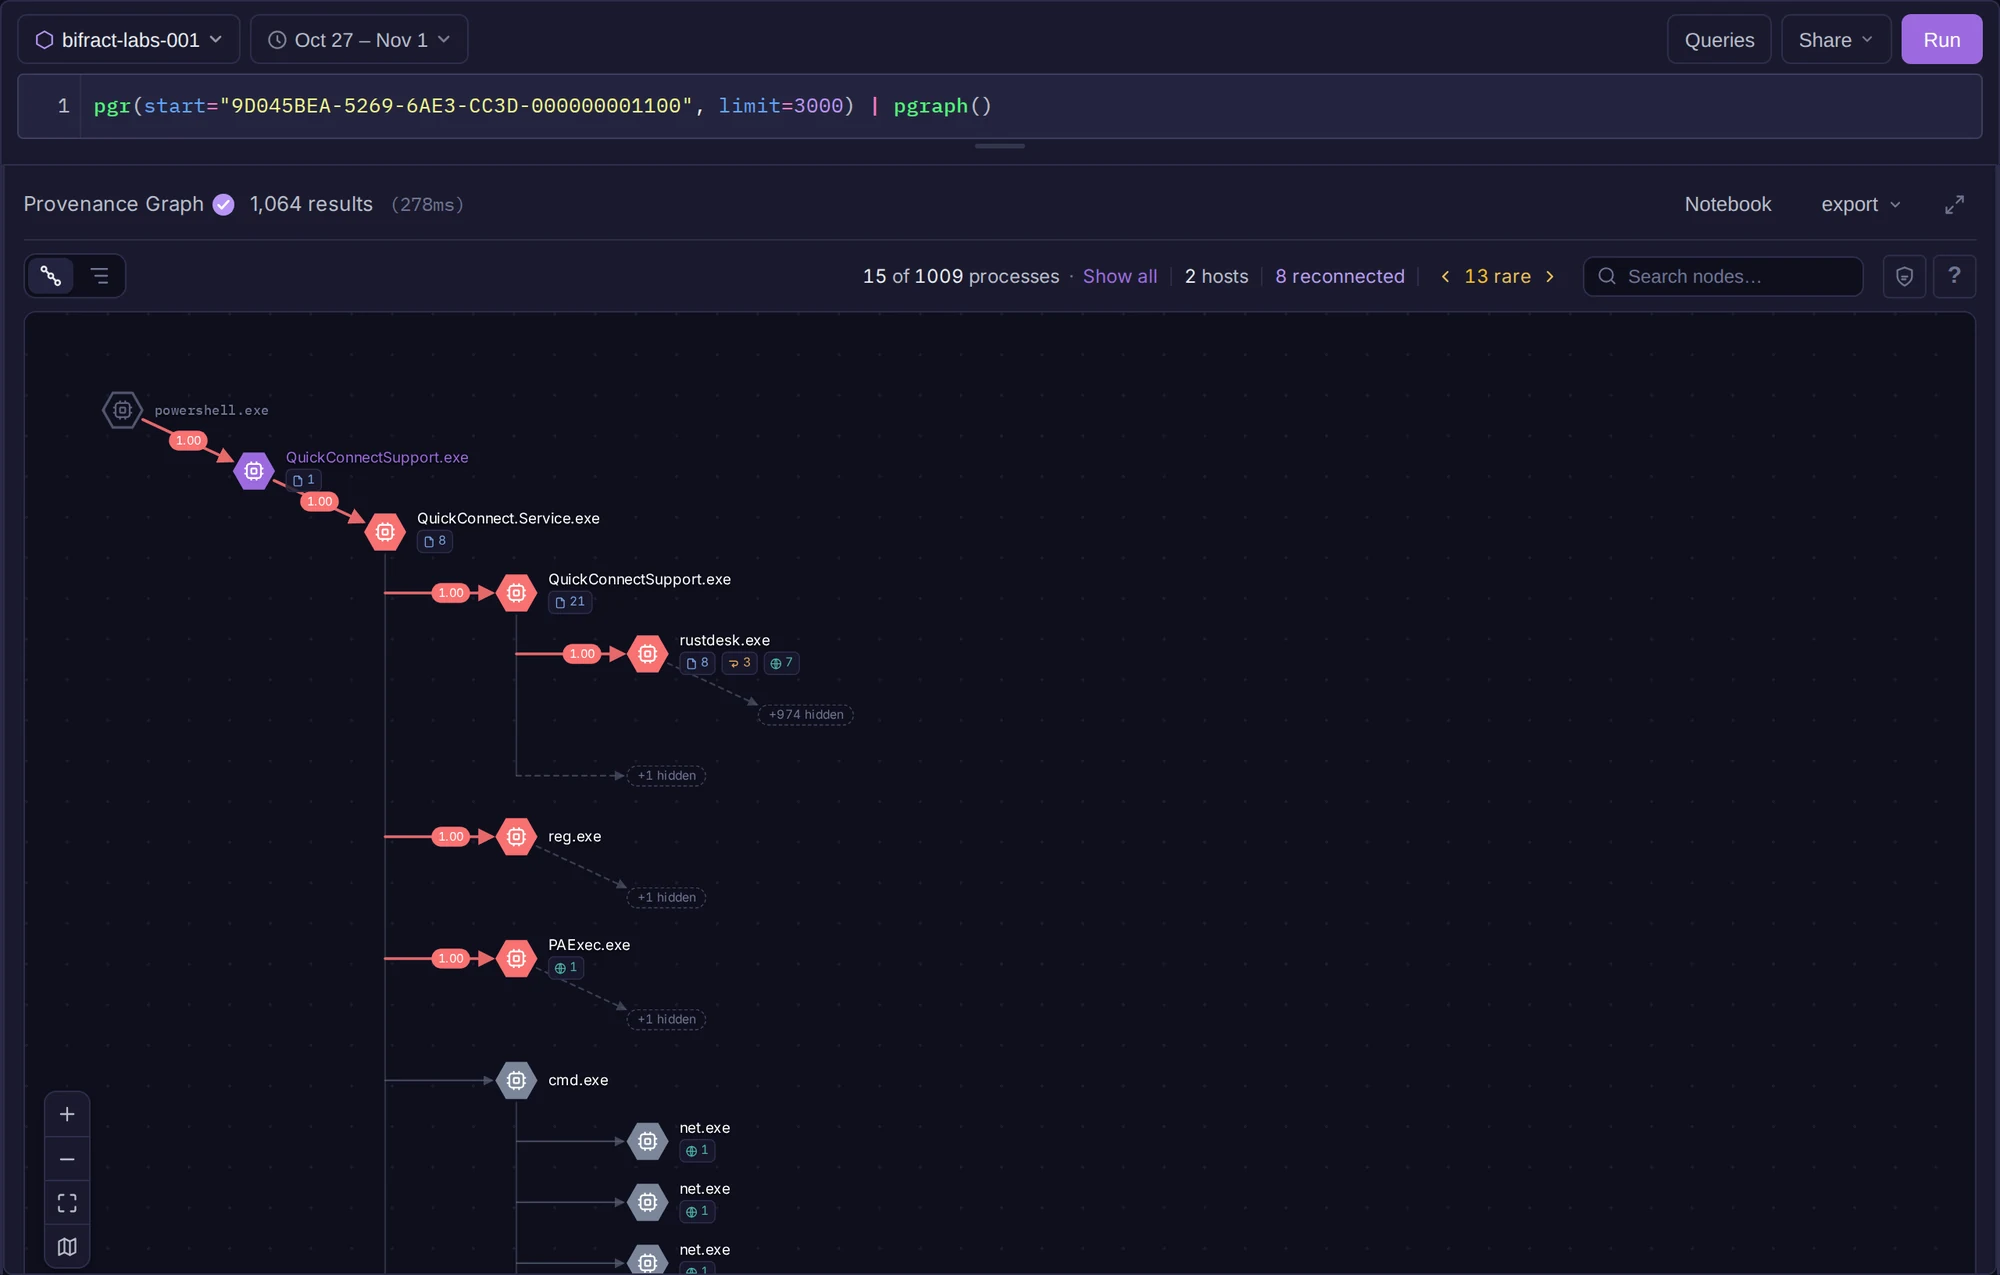
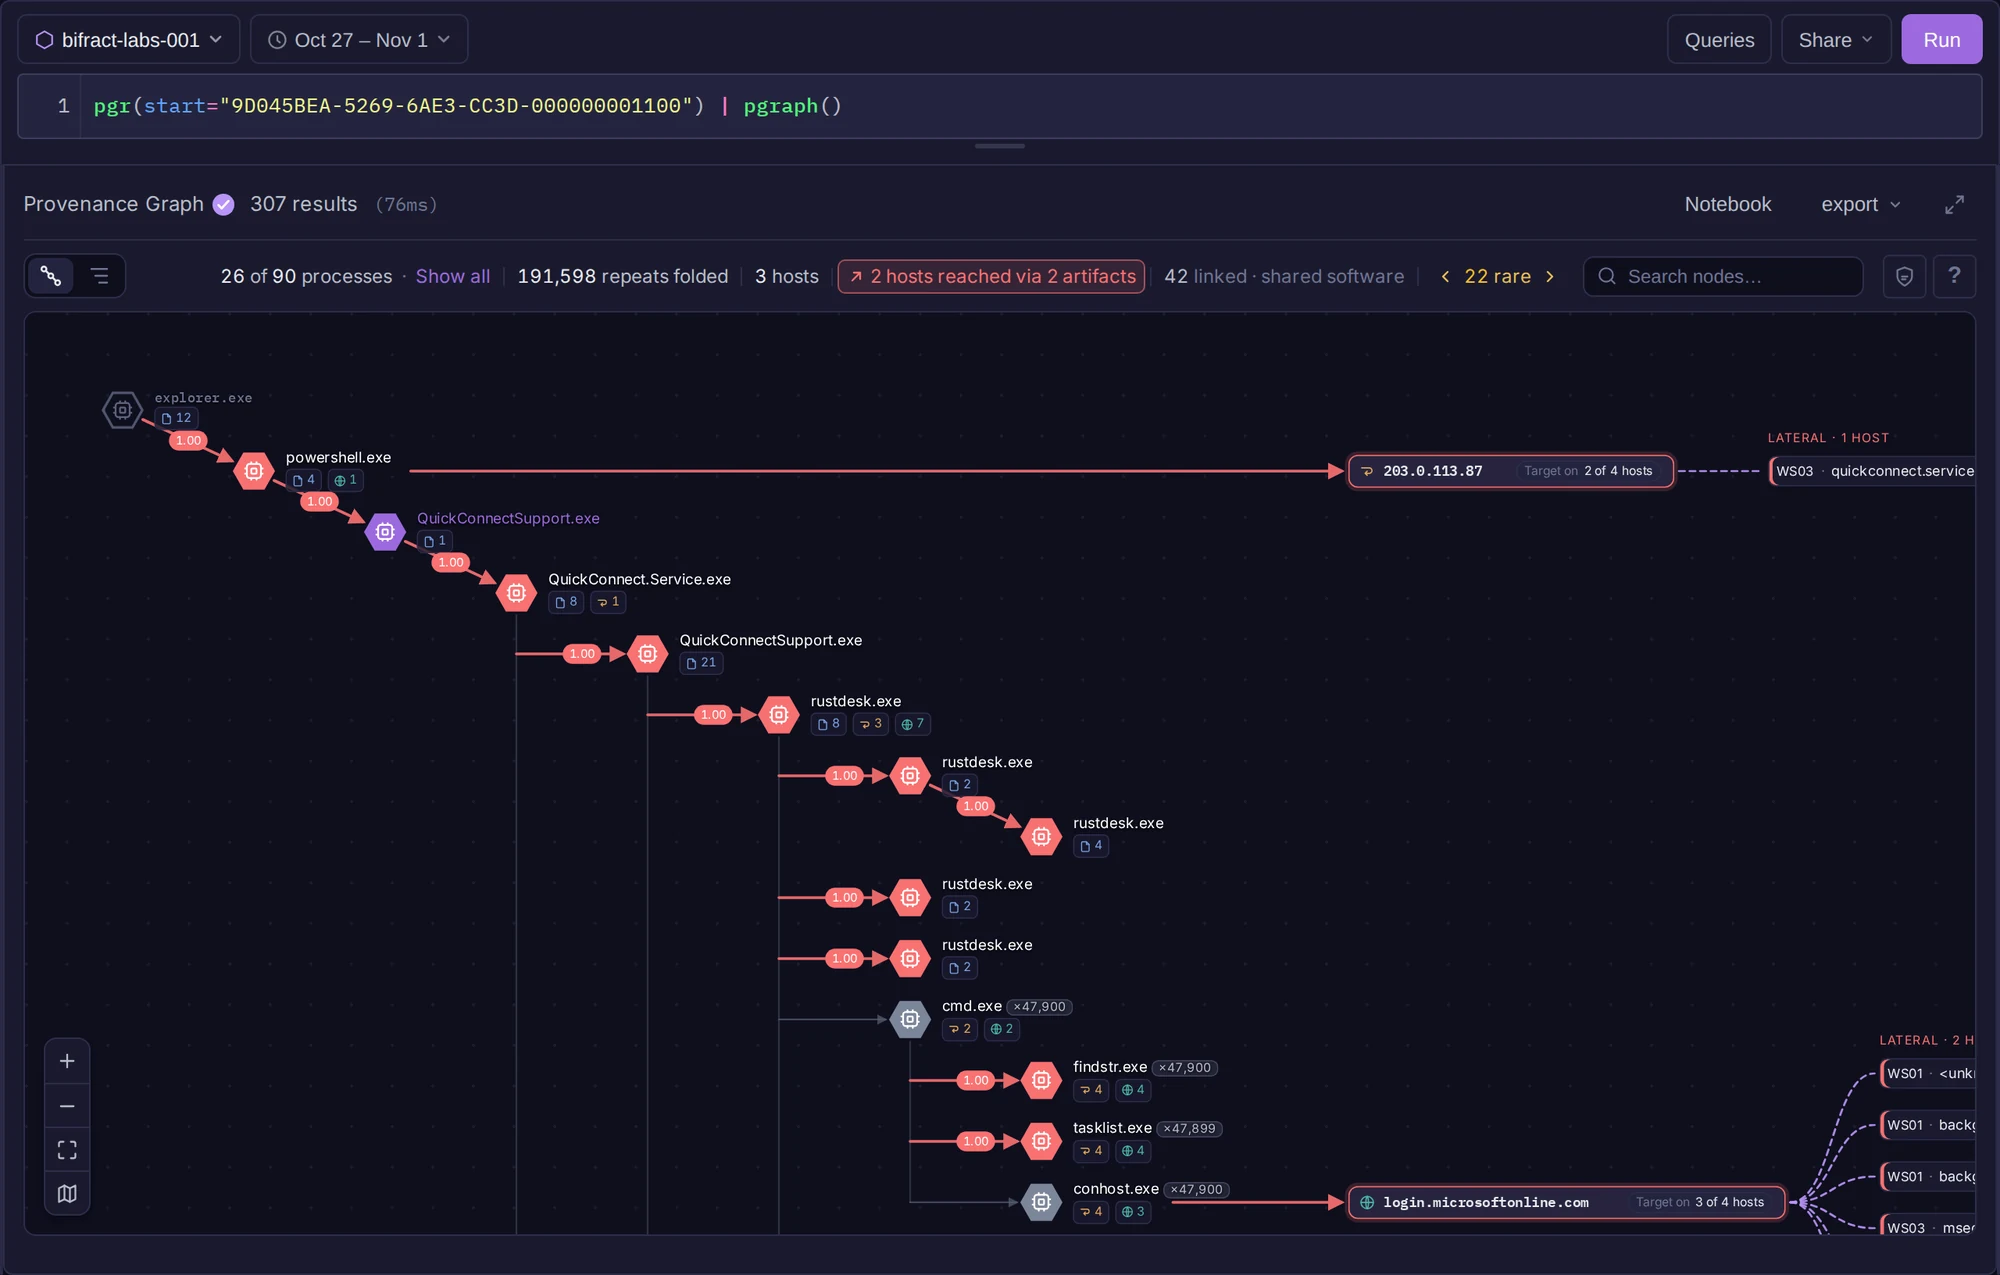
Update the guide for Bifract v0.0.9
pgr() now folds repeated children, so the limit=3000 workaround and its
tip go, and the graph is recaptured. Explain the new lateral badge,
including the login.microsoftonline.com lead on WS01 that's a false
positive. Network models show Scored on the models list, not Learning.
All 40 guide queries and all 31 answers check out on v0.0.9.

diff --git a/guide/001/walkthrough/03-loader.md b/guide/001/walkthrough/03-loader.md
@@ -93,14 +93,13 @@ ptg(start="9D045BEA-5269-6AE3-CC3D-000000001100", direction=forward, depth=1)
 `pgr()` goes further than `ptg()`. It rebuilds the process tree, scores each file, network and DNS action by how rare it is on other hosts, and hides the everyday noise. Start it on the loader and draw it with `pgraph()`:
 
 ```bql
-pgr(start="9D045BEA-5269-6AE3-CC3D-000000001100", limit=3000) | pgraph()
+pgr(start="9D045BEA-5269-6AE3-CC3D-000000001100") | pgraph()
 ```
 <!-- shot: q009-pgr | The provenance graph from the loader. Red marks actions rare across the fleet. | graph wait=9000 -->
 
-Use the **‹ ›** arrows next to **N rare** to step through the processes with rare activity. Most of the next four chapters are in this graph: discovery commands, the renamed RustDesk, a registry Run key, a `net use` loop, and PAExec reaching WS03.
+Use the **‹ ›** arrows next to **N rare** to step through the processes with rare activity. Most of the next four chapters are in this graph: discovery commands, the renamed RustDesk, a registry Run key, a `net use` loop, and PAExec reaching WS03. RustDesk alone starts `cmd.exe` about 48,000 times, and `pgr()` folds those repeats so they don't bury the rest.
 
-!!! info "Raise the limit"
-    RustDesk starts `cmd.exe` about 48,000 times. At the default `limit`, those repeats can crowd out file and network actions, so this query raises it to 3000.
+The red **2 hosts reached via 2 artifacts** badge marks other hosts that share something rare with this tree. One is real: on WS03, a copy of the implant talks to the same `203.0.113.87` ([chapter 7](07-lateral-movement.md)). The other is a false lead. WS01 also looks up `login.microsoftonline.com`, like any Windows host signing in to Microsoft, so check each lead before you trust it.
 
 ## Optional: does it look like a known C2?
 

diff --git a/guide/001/setup.md b/guide/001/setup.md
@@ -39,7 +39,7 @@ With the `bifract-labs-001` fractal selected:
 3. **Backfill two of them.** Open `rmm_users`, click **Backfill**, pick **Custom range** from **Oct 27, 2026** to **Nov 1, 2026**, and start it. Do the same for `remote_tools_first_seen`.
 4. **Score the network models.** Open `outbound_beacons` and click **Score range**. If you added the lab from the Exchange, the range is already filled in. Otherwise enter **2026-10-27 00:00** to **2026-10-31 00:00**. Click **Score range** again. Do the same for `outbound_long_connections`.
 
-Backfilled models show **Stale** and network models show **Learning**. That's expected for a dataset from the past.
+On the models list, backfilled models show **Stale** and network models show **Scored** with the end of the range. That's expected for a dataset from the past.
 
 ## Start hunting
 
